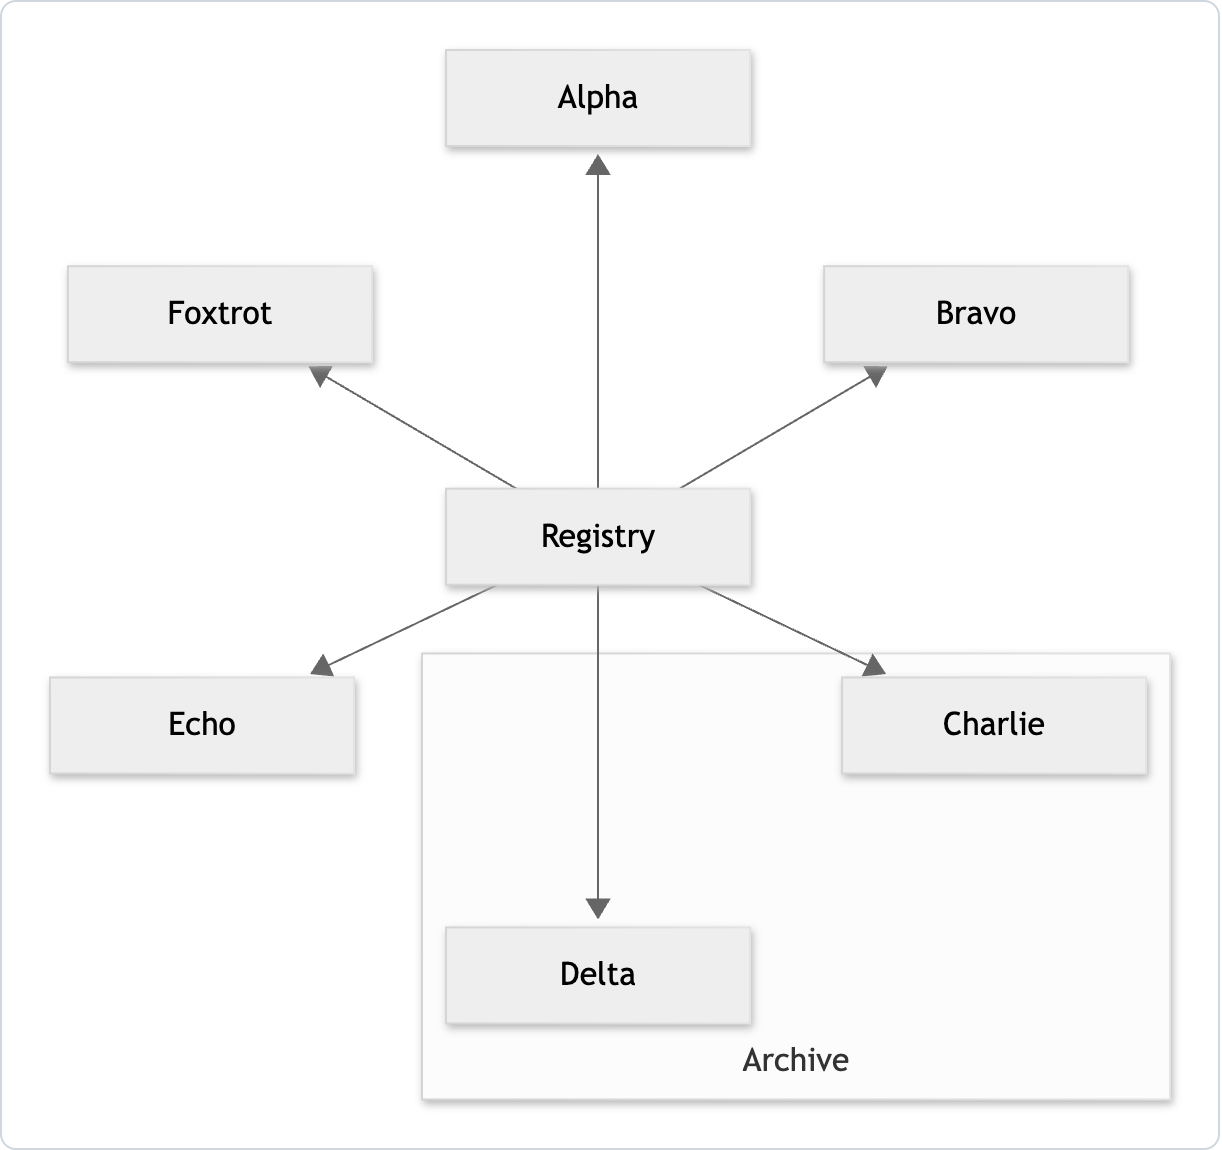
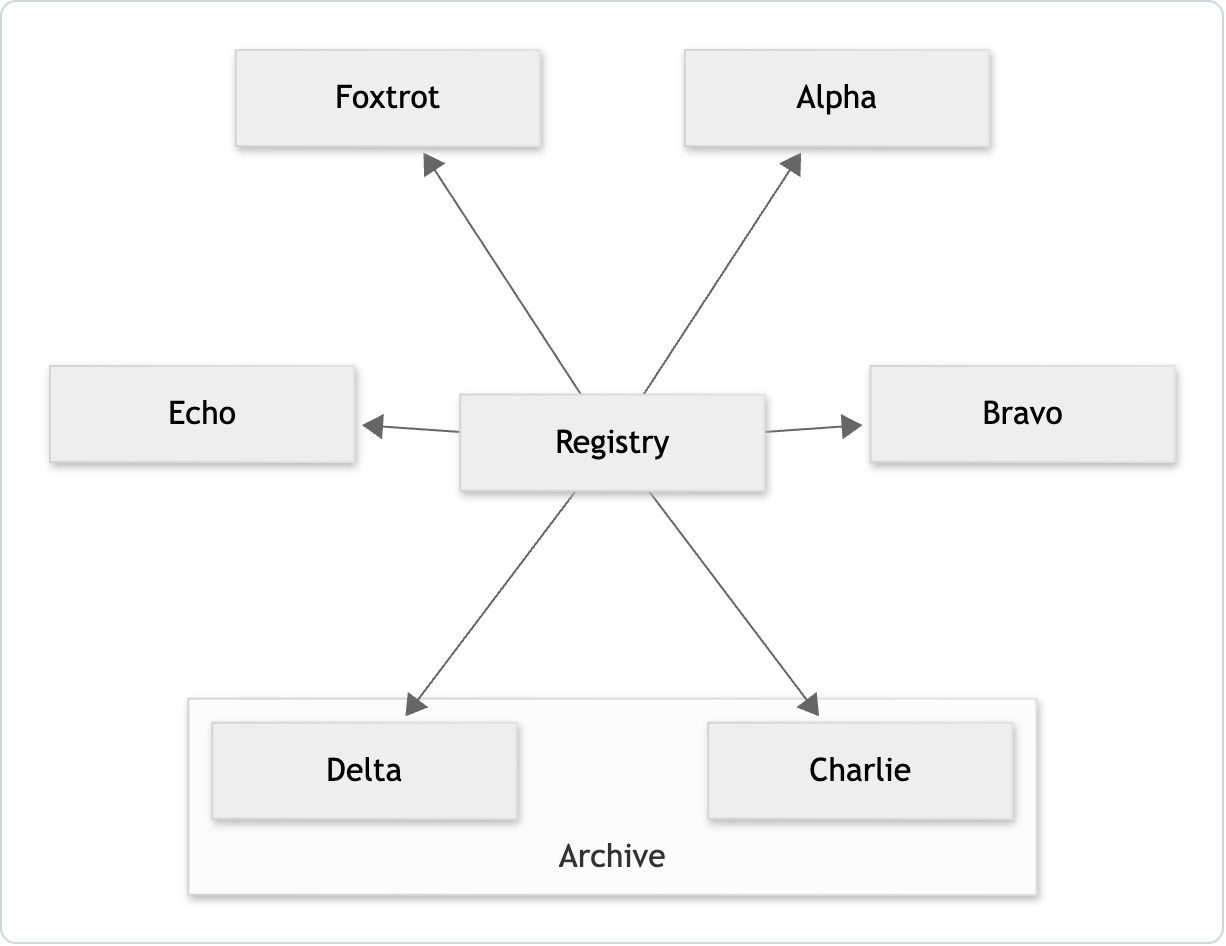
chore: layout-circular 0.3.0 from npm — boxes by fit, a band round a hub
The core now installs from npm at 0.3.0, in place of the GitHub dependency, whose lockfile still pinned 0.1.1. The bundle gains every core change since: boxes hold their arcs, the title-bottom hub is compact, and groups take their shape by fit. The group pictures are redrawn. The gallery shows Funded as a box, a nested box, and a band and a nested band around a hub. The old band pictures stay until the next release, because the npm README still loads them.

(generated using Claude Opus 5.5)

diff --git a/demo/cases.ts b/demo/cases.ts
@@ -343,8 +343,8 @@ export const cases: Case[] = [
 `,
   },
   {
-    title: 'a subgraph nested in a band is a band too, its title between the two',
-    doc: 'nested-band',
+    title: 'a subgraph nested in a box is a box inside it',
+    doc: 'nested-box',
     wide: true,
     text:
       frontmatter('circular') +
@@ -360,6 +360,53 @@ export const cases: Case[] = [
   end
   P --> D --> C --> T --> R --> V[Review] --> P
   style CI fill:#ffd
+`,
+  },
+  {
+    title: 'a subgraph no box can clear, round a hub outside it — a band',
+    doc: 'hub-band',
+    wide: true,
+    text:
+      frontmatter('circular') +
+      `flowchart LR
+  subgraph Core
+    A[Alpha]
+    B[Bravo]
+    C[Charlie]
+    D[Delta]
+  end
+  A --> B --> C --> D --> E[Echo] --> F[Foxtrot] --> A
+  A --> H[Registry]
+  B --> H
+  C --> H
+  D --> H
+  E --> H
+  F --> H
+`,
+  },
+  {
+    title: 'a subgraph nested in a band is a band too, its title between the two',
+    doc: 'hub-nested-band',
+    wide: true,
+    text:
+      frontmatter('circular') +
+      `flowchart LR
+  subgraph Core
+    A[Alpha]
+    subgraph Hot
+      B[Bravo]
+      C[Charlie]
+    end
+    D[Delta]
+  end
+  A --> B --> C --> D --> E[Echo] --> F[Foxtrot] --> A
+  A --> H[Registry]
+  B --> H
+  C --> H
+  D --> H
+  E --> H
+  F --> H
+  style Hot fill:#ffd
 `,
   },
   {
@@ -428,8 +475,8 @@ export const cases: Case[] = [
 `,
   },
   {
-    title: 'a band around four of five — the README picture beside the box',
-    doc: 'lifecycle-band',
+    title: 'a box around four of five — a big group is a box when one clears',
+    doc: 'lifecycle-funded',
     text:
       frontmatter('circular') +
       `flowchart LR

diff --git a/docs/GALLERY.md b/docs/GALLERY.md
@@ -192,9 +192,9 @@ flowchart LR
 
 ## Groups
 
-### A small group
+### A box
 
-A subgraph (a group of nodes) keeps its members next to each other on the circle. A small group is drawn as a tight box. The circle turns, if needed, so the box clears every other node.
+A subgraph (a group of nodes) keeps its members next to each other on the circle. A group is drawn as a tight box when one fits. The circle turns, if needed, so the box clears every other node.
 
 <img src="media/lifecycle-box.png" width="485" alt="Five boxes on a circle. Build and Test sit inside a gray box titled Make, at the bottom.">
 
@@ -212,11 +212,11 @@ flowchart LR
   S --> B --> T --> P[Ship] --> I
 ```
 
-### A group around half the ring or more
+### A box around most of the ring
 
-A group that covers half the circle or more is drawn as a band, a strip that follows the circle. Its title sits outside it.
+A big group is a box too, as long as one clears every other node. Funded holds four of the five nodes.
 
-<img src="media/lifecycle-band.png" width="562" alt="The same five boxes. A curved gray strip titled Funded holds four of them, all but Idea.">
+<img src="media/lifecycle-funded.png" width="530" alt="Five boxes on a circle. A large gray box titled Funded holds Spec, Build, Test and Ship. Idea sits above it.">
 
 ```
 ---
@@ -234,11 +234,11 @@ flowchart LR
   I --> S --> B --> T --> P --> I
 ```
 
-### A group inside a band
+### A group inside a box
 
-A group inside a band is drawn as a band too. Its title sits between the two. The `style` line colors the inner group.
+A group nested inside a box is a box inside it. The `style` line colors the inner group.
 
-<img src="media/nested-band.png" width="640" alt="Two curved strips, Engineering around four boxes and a yellow CI strip inside it around Code and Test.">
+<img src="media/nested-box.png" width="608" alt="Six boxes on a circle. A gray box titled Engineering holds Design, Code, Test and Release, with a yellow box titled CI around Code and Test.">
 
 ```
 ---
@@ -259,11 +259,68 @@ flowchart LR
   style CI fill:#ffd
 ```
 
+### A band, when no box fits
+
+A group becomes a band, a strip that follows the circle, only when no box fits. Here every node has an arrow to Registry in the middle, so any box around Core would cover it. The band leaves Registry outside. Its title sits outside the band.
+
+<img src="media/hub-band.png" width="640" alt="Six boxes on a circle around a hub, Registry, with an arrow from each to the hub. A gray curved strip titled Core runs along the right half under Alpha, Bravo, Charlie and Delta, and leaves the hub outside.">
+
+```
+---
+config:
+  layout: circular
+---
+flowchart LR
+  subgraph Core
+    A[Alpha]
+    B[Bravo]
+    C[Charlie]
+    D[Delta]
+  end
+  A --> B --> C --> D --> E[Echo] --> F[Foxtrot] --> A
+  A --> H[Registry]
+  B --> H
+  C --> H
+  D --> H
+  E --> H
+  F --> H
+```
+
+### A group inside a band
+
+A group inside a band is drawn as a band too. Its title sits between the two. The `style` line colors the inner group.
+
+<img src="media/hub-nested-band.png" width="640" alt="Six boxes around a hub, Registry. A gray curved strip titled Core runs under Alpha, Bravo, Charlie and Delta, with a yellow strip titled Hot inside it under Bravo and Charlie.">
+
+```
+---
+config:
+  layout: circular
+---
+flowchart LR
+  subgraph Core
+    A[Alpha]
+    subgraph Hot
+      B[Bravo]
+      C[Charlie]
+    end
+    D[Delta]
+  end
+  A --> B --> C --> D --> E[Echo] --> F[Foxtrot] --> A
+  A --> H[Registry]
+  B --> H
+  C --> H
+  D --> H
+  E --> H
+  F --> H
+  style Hot fill:#ffd
+```
+
 ### A title moved to the bottom
 
 Spokes from Registry cross the top of the Archive box. So the title moves to the bottom, where no arrow crosses.
 
-<img src="media/title-bottom.png" width="611" alt="Registry in the middle with six spokes. Charlie and Delta sit in a box with its title, Archive, at the bottom.">
+<img src="media/title-bottom.png" width="613" alt="Registry in the middle with six spokes. Charlie and Delta sit in a box with its title, Archive, at the bottom.">
 
 ```
 ---

diff --git a/docs/DECISIONS.md b/docs/DECISIONS.md
@@ -341,13 +341,19 @@ update the README beside it.
   node, so their circles stack and stay narrow. The larger versions
   stay in the demo. `CLAUDE.md` is no longer a symlink to the README;
   it holds the agent's own rules.
-- **2026-11-25 — Provisional: groups by fit, with the title allowed
-  below.** Pending the owner's judgment of renders, on branch
-  `feat/fit-groups`; not settled. It follows layout-circular's
-  provisional rule on the same branch: a group is a box when one
-  clears, and a box may put its title below rather than turn the ring,
-  never instead of growth. Nothing in this package changes; bands are
-  drawn as on main. The README and gallery pictures, and the
-  `lifecycle-band` demo case, still show the old band. Under the new
-  rule that case is a box; the pictures and the case wait for the
-  owner's verdict.
+- **2026-11-26 — The core installs from npm, at 0.3.0.** The
+  devDependency is `layout-circular@^0.3.0` from npm, in place of
+  `github:AndrewBroz/layout-circular`. The GitHub entry was a stopgap
+  until an npm release. Its lockfile still pinned the 0.1.1 commit, so
+  the bundle carried 0.1.1. With 0.3.0 the bundle gains every core
+  change since then: a box holds the arcs between its members, the
+  `title-bottom` hub is compact, and groups take their shape by fit.
+- **2026-11-26 — Groups by fit.** A group is a box when one clears,
+  however much of the ring it covers. A box may put its title below at
+  a turn that can't clear with titles on top. A group is a band only
+  when no box fits. The owner picked this from renders; it is
+  provisional and may change. This package draws bands as before. The
+  docs show a band with `hub-band` and a nested band with
+  `hub-nested-band`. `lifecycle-band.png` and `nested-band.png` stay
+  until the next release, because the npm README loads its pictures
+  from `main`.

diff --git a/README.md b/README.md
@@ -162,17 +162,18 @@ flowchart LR
 ## Groups
 
 A subgraph (a group of nodes) keeps its members next to each other on
-the circle. A small group is drawn as a tight box. The circle turns,
-if needed, so the box clears every other node.
+the circle. A group is drawn as a tight box when one fits, however
+much of the circle it covers. The circle turns, if needed, so the box
+clears every other node. Where the top of a box has no room for its
+title, the title may go below the box instead.
 
-A group that covers half the circle or more is drawn as a band, a
-strip that follows the circle. A box around that much of a circle
-would cover the middle. When arrows cross the top of a box, its title
-moves to the bottom.
+A group becomes a band, a strip that follows the circle, only when no
+box fits. On the right, any box around Core would cover Registry. When
+arrows cross the top of a box, its title moves to the bottom.
 
-| A small group: a box | A group around half the ring or more: a band |
+| A group a box can clear: a box | A group no box can clear: a band |
 | --- | --- |
-| <img src="docs/media/lifecycle-box.png" width="315" alt="Five boxes on a circle. Build and Test sit inside a gray box titled Make, at the bottom."> | <img src="docs/media/lifecycle-band.png" width="365" alt="The same five boxes. A curved gray strip titled Funded holds four of them, all but Idea."> |
+| <img src="docs/media/lifecycle-box.png" width="315" alt="Five boxes on a circle. Build and Test sit inside a gray box titled Make, at the bottom."> | <img src="docs/media/hub-band.png" width="320" alt="Six boxes on a circle around a hub, Registry, with an arrow from each to the hub. A gray curved strip titled Core runs along the right half under Alpha, Bravo, Charlie and Delta, and leaves the hub outside."> |
 
 More group examples are in the [gallery](docs/GALLERY.md#groups).
 
